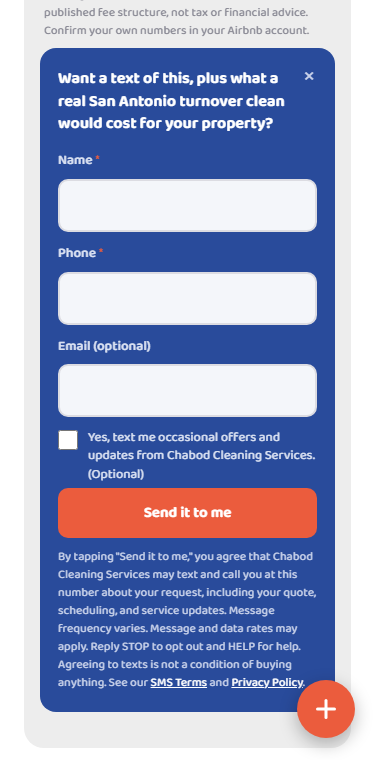
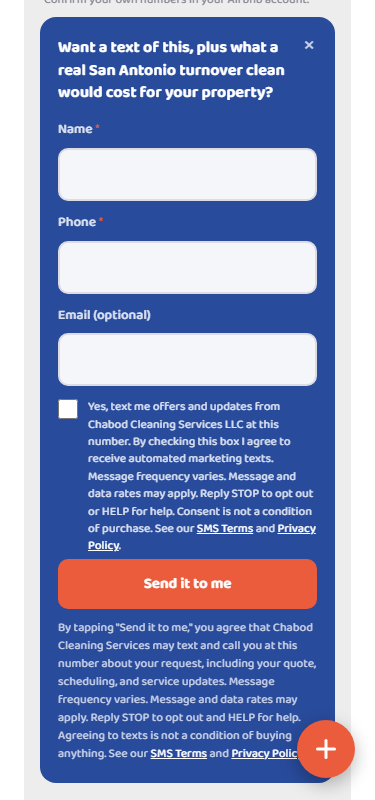
Apply approved legal wording: deposit moves, 'nothing to sign', softer claims, team-size notes
- Service Terms: new-client $50 deposit with up to 3 date moves; 'Nothing to sign'
  bullet and 'You do not sign anything'
- Soften absolute marketing claims (every time / always / spotless / zero) on the
  home, STR, residential and deep-cleaning pages, keeping meta, social-share copy,
  JSON-LD and llms.txt in step; same-day is subject to availability
- Add 'Team size and time depend on the size and condition of the property.' next to
  the 2-3 person / 3 hour and team-of-two-to-four claims
- Keep 'No contracts' / 'no lock-in fees' as written
- Stage final wording for four stored posts; archive originals
- LEGAL_REVIEW_NEEDED.md: undecided 4th move, open consistency items

diff --git a/public/residential-cleaning.html b/public/residential-cleaning.html
@@ -6,15 +6,15 @@
 <title>House Cleaning Services San Antonio | Chabod Cleaning</title>
 <link rel="canonical" href="https://chabodcleaningservices.com/residential-cleaning">
 <link rel="icon" type="image/png" href="/favicon.png">
-<meta name="description" content="Trusted house cleaning services in San Antonio, TX. Same team every visit, flat pricing, no contracts. Book your recurring or one-time clean today.">
+<meta name="description" content="Trusted house cleaning services in San Antonio, TX. Usually the same team, flat pricing, no contracts. Book your recurring or one-time clean today.">
 <meta property="og:type" content="website">
 <meta property="og:site_name" content="Chabod Cleaning Services">
 <meta property="og:title" content="House Cleaning Services San Antonio | Chabod Cleaning">
-<meta property="og:description" content="Trusted house cleaning services in San Antonio, TX. Same team every visit, flat pricing, no contracts. Book your recurring or one-time clean today.">
+<meta property="og:description" content="Trusted house cleaning services in San Antonio, TX. Usually the same team, flat pricing, no contracts. Book your recurring or one-time clean today.">
 <meta property="og:url" content="https://chabodcleaningservices.com/residential-cleaning">
 <meta name="twitter:card" content="summary">
 <meta name="twitter:title" content="House Cleaning Services San Antonio | Chabod Cleaning">
-<meta name="twitter:description" content="Trusted house cleaning services in San Antonio, TX. Same team every visit, flat pricing, no contracts. Book your recurring or one-time clean today.">
+<meta name="twitter:description" content="Trusted house cleaning services in San Antonio, TX. Usually the same team, flat pricing, no contracts. Book your recurring or one-time clean today.">
 <link rel="preload" href="/fonts/manrope-latin.woff2" as="font" type="font/woff2" crossorigin>
 <link rel="preload" href="/fonts/baloo2-latin.woff2" as="font" type="font/woff2" crossorigin>
 <style>
@@ -532,7 +532,7 @@ img.photo { background: none; border: none; padding: 0; display: block; max-widt
   "@type": "Service",
   "name": "Residential House Cleaning",
   "serviceType": "House cleaning",
-  "description": "Recurring and one-time house cleaning in San Antonio. The same trained team every visit, flat pricing, and no contracts.",
+  "description": "Recurring and one-time house cleaning in San Antonio. Usually the same trained team, flat pricing, and no contracts.",
   "url": "https://chabodcleaningservices.com/residential-cleaning",
   "provider": {
     "@id": "https://chabodcleaningservices.com/#business"
@@ -611,7 +611,7 @@ img.photo { background: none; border: none; padding: 0; display: block; max-widt
       "name": "Will I get the same cleaners every time?",
       "acceptedAnswer": {
         "@type": "Answer",
-        "text": "Yes. You get a dedicated team assigned to your home, plus a trained backup team who also knows your house in case your regulars are ever unavailable."
+        "text": "Usually. You get a dedicated team assigned to your home, plus a trained backup team who also knows your house in case your regulars are ever unavailable."
       }
     },
     {
@@ -627,7 +627,7 @@ img.photo { background: none; border: none; padding: 0; display: block; max-widt
       "name": "How long does a visit take?",
       "acceptedAnswer": {
         "@type": "Answer",
-        "text": "Most visits run 1.5–3 hours with a team of 2–3 people, rather than one person there all day."
+        "text": "Most visits run 1.5–3 hours with a team of 2–3 people, rather than one person there all day. Team size and time depend on the size and condition of the property."
       }
     },
     {
@@ -690,7 +690,7 @@ html.cc-wait #cc{display:block}
     <img class="photo hero-bg" id="heroBg" src="residential-hero-livingroom.webp" alt="Chabod Cleaning Services team member cleaning a San Antonio living room" width="1122" height="1402">
     <div class="hero-overlay">
       <h1>The Same Team, Cleaning Your San Antonio Home, <span class="hl on-dark">For Years.</span></h1>
-      <p class="sub">Chabod Cleaning Services keeps San Antonio homes at one standard, visit after visit, with the same trained team who actually knows your house. Not a stranger every time.</p>
+      <p class="sub">Chabod Cleaning Services keeps San Antonio homes at one standard, visit after visit, with a trained team who actually knows your house, usually the same one.</p>
       <div class="proof">8+ YEARS IN SAN ANTONIO &bull; DEDICATED TEAMS &bull; NO CONTRACTS</div>
       <a href="tel:+12104806224" class="btn">Talk to Andres Directly</a>
     </div>
@@ -741,8 +741,8 @@ html.cc-wait #cc{display:block}
   <!-- TRUST -->
   <div class="pad trust reveal">
     <img class="photo trust-photo" src="residential-team-arriving.webp" alt="Chabod Cleaning Services team arriving at a returning client's San Antonio home with cleaning supplies" loading="lazy" width="1600" height="900">
-    <h2>The same team. Every time. On purpose.</h2>
-    <p>You get a dedicated team assigned to your home, plus a trained backup team who also knows your house if your regulars are ever out. Every visit is logged, so there's always accountability behind what got done.</p>
+    <h2>Usually the same team. On purpose.</h2>
+    <p>You get a dedicated team assigned to your home, plus a trained backup team who also knows your house if your regulars are ever out. Every visit is logged, so there's accountability behind what got done.</p>
     <div class="stats-row" style="margin: 20px 0;">
       <div class="stat-block">
         <div class="stat-num" data-count="75">0</div>
@@ -753,6 +753,7 @@ html.cc-wait #cc{display:block}
         <div class="stat-label">hrs or less, most visits</div>
       </div>
     </div>
+    <p style="font-size:12px; color:#666; margin:-8px 0 16px;">Team size and time depend on the size and condition of the property.</p>
     <p style="margin-bottom: 8px; font-weight: 700; color: var(--blue); font-size: 15px;">A good fit for:</p>
     <div class="audience-row">
       <div class="audience-chip">Remote workers</div>
@@ -768,7 +769,7 @@ html.cc-wait #cc{display:block}
     <div class="glass-card">
       <h2>What we do, and what we're upfront about.</h2>
       <ul class="glass-list">
-        <li><span class="mark">&#10003;</span><span>Every room reset to standard, every visit.</span></li>
+        <li><span class="mark">&#10003;</span><span>Every room worked from our written checklist.</span></li>
         <li><span class="mark">&#10003;</span><span>Hotel-style bed-making with fresh linens, if you leave them out for us.</span></li>
         <li><span class="mark">&#10003;</span><span>Dishes go straight in the dishwasher, so our time goes to actually cleaning, not hand-washing.</span></li>
         <li><span class="mark">&#10007;</span><span>We don't do personal laundry &mdash; just being upfront about it.</span></li>
@@ -809,7 +810,7 @@ html.cc-wait #cc{display:block}
     </div>
     <div class="faq-item">
       <div class="faq-q">Will I get the same cleaners every time?</div>
-      <div class="faq-a">Yes. You get a dedicated team assigned to your home, plus a trained backup team who also knows your house in case your regulars are ever unavailable.</div>
+      <div class="faq-a">Usually. You get a dedicated team assigned to your home, plus a trained backup team who also knows your house in case your regulars are ever unavailable.</div>
     </div>
     <div class="faq-item">
       <div class="faq-q">Do you do laundry?</div>
@@ -817,7 +818,7 @@ html.cc-wait #cc{display:block}
     </div>
     <div class="faq-item">
       <div class="faq-q">How long does a visit take?</div>
-      <div class="faq-a">Most visits run 1.5&ndash;3 hours with a team of 2&ndash;3 people, rather than one person there all day.</div>
+      <div class="faq-a">Most visits run 1.5&ndash;3 hours with a team of 2&ndash;3 people, rather than one person there all day. Team size and time depend on the size and condition of the property.</div>
     </div>
     <div class="faq-item">
       <div class="faq-q">Is there a contract?</div>

diff --git a/public/deep-cleaning.html b/public/deep-cleaning.html
@@ -541,7 +541,7 @@ img.photo { background: none; border: none; padding: 0; display: block; max-widt
       "name": "What's actually included that isn't in a regular cleaning?",
       "acceptedAnswer": {
         "@type": "Answer",
-        "text": "The level of scrubbing. Showers cleaned to a streak-free finish, baseboards throughout, corner-level dusting with zero cobwebs, full oven degreasing, outside cabinet degreasing, moving the fridge and stove when needed, and grout work in every bathroom. None of that is part of a standard recurring visit."
+        "text": "The level of scrubbing. Showers cleaned to a streak-free finish, baseboards throughout, corner-level dusting and cobweb removal, full oven degreasing, outside cabinet degreasing, moving the fridge and stove when needed, and grout work in every bathroom. None of that is part of a standard recurring visit."
       }
     },
     {
@@ -549,7 +549,7 @@ img.photo { background: none; border: none; padding: 0; display: block; max-widt
       "name": "How long does a deep clean take?",
       "acceptedAnswer": {
         "@type": "Answer",
-        "text": "Usually four to six hours with a team of two to four people. We adjust crew size and hours depending on urgency and how much notice we get."
+        "text": "Usually four to six hours with a team of two to four people. We adjust crew size and hours depending on urgency and how much notice we get. Team size and time depend on the size and condition of the property."
       }
     },
     {
@@ -581,7 +581,7 @@ img.photo { background: none; border: none; padding: 0; display: block; max-widt
       "name": "How far in advance do I need to book?",
       "acceptedAnswer": {
         "@type": "Answer",
-        "text": "Sometimes we can accommodate same-day. Worst case, next-day. We understand move-outs come with hard deadlines, so we'll flex crew size and hours to make it work, as long as timing, access, and pricing line up."
+        "text": "Sometimes we can accommodate same-day; usually next-day or sooner, when the schedule allows. We understand move-outs come with hard deadlines, so we'll flex crew size and hours where we can, as long as timing, access, and pricing line up."
       }
     },
     {
@@ -653,7 +653,7 @@ html.cc-wait #cc{display:block}
     <ul>
       <li>Showers scrubbed to a streak-free, clear-glass finish</li>
       <li>Baseboards throughout, every room</li>
-      <li>Corner-level dusting, zero cobwebs left behind</li>
+      <li>Corner-level dusting and cobweb removal</li>
       <li>Full oven degreasing, inside and out</li>
       <li>Cabinet fronts degreased, outside and in (when vacant)</li>
       <li>Fridge moved and cleaned behind and beneath, when applicable</li>
@@ -705,7 +705,7 @@ document.addEventListener("click", function (e) {
     <h2 class="reveal">Built for the moment you're actually in.</h2>
     <div class="case-card reveal" style="--stagger: 0s;">
       <h3>Move-Out / Move-In</h3>
-      <p>Need the property returned spotless, or settling into a new home before you unpack? This is often the first job we do for a new client, before we ever become their regular cleaner. It's the most requested move out cleaning service we handle in San Antonio.</p>
+      <p>Need the property move-out ready, or settling into a new home before you unpack? This is often the first job we do for a new client, before we ever become their regular cleaner. It's the most requested move out cleaning service we handle in San Antonio.</p>
     </div>
     <div class="case-card reveal" style="--stagger: 0.15s;">
       <h3>The First Deep Clean Before Going Recurring</h3>
@@ -719,7 +719,7 @@ document.addEventListener("click", function (e) {
 
   <div class="liability pad reveal">
     <h2>One note on cabinets, fridges, and pantries.</h2>
-    <p>If the property is vacant and cleared out, we go all in — inside cabinets, inside the fridge, inside the pantry, all of it, spotless. If it's still occupied with belongings in place, we clean everything around your things, but won't go inside personal food storage or move your items — strictly a liability call. Clear the shelves first, and we'll gladly go inside.</p>
+    <p>If the property is vacant and cleared out, we go all in — inside cabinets, inside the fridge, inside the pantry, all of it. If it's still occupied with belongings in place, we clean everything around your things, but won't go inside personal food storage or move your items — strictly a liability call. Clear the shelves first, and we'll gladly go inside.</p>
   </div>
 
   <div class="pricing pad reveal">
@@ -747,11 +747,11 @@ document.addEventListener("click", function (e) {
     <h2>Frequently Asked Questions</h2>
     <div class="faq-item open" onclick="this.classList.toggle('open')">
       <div class="faq-q">What's actually included that isn't in a regular cleaning?</div>
-      <div class="faq-a">The level of scrubbing. Showers cleaned to a streak-free finish, baseboards throughout, corner-level dusting with zero cobwebs, full oven degreasing, outside cabinet degreasing, moving the fridge and stove when needed, and grout work in every bathroom. None of that is part of a standard recurring visit.</div>
+      <div class="faq-a">The level of scrubbing. Showers cleaned to a streak-free finish, baseboards throughout, corner-level dusting and cobweb removal, full oven degreasing, outside cabinet degreasing, moving the fridge and stove when needed, and grout work in every bathroom. None of that is part of a standard recurring visit.</div>
     </div>
     <div class="faq-item" onclick="this.classList.toggle('open')">
       <div class="faq-q">How long does a deep clean take?</div>
-      <div class="faq-a">Usually four to six hours with a team of two to four people. We adjust crew size and hours depending on urgency and how much notice we get.</div>
+      <div class="faq-a">Usually four to six hours with a team of two to four people. We adjust crew size and hours depending on urgency and how much notice we get. Team size and time depend on the size and condition of the property.</div>
     </div>
     <div class="faq-item" onclick="this.classList.toggle('open')">
       <div class="faq-q">Do I need to be home for it?</div>
@@ -767,7 +767,7 @@ document.addEventListener("click", function (e) {
     </div>
     <div class="faq-item" onclick="this.classList.toggle('open')">
       <div class="faq-q">How far in advance do I need to book?</div>
-      <div class="faq-a">Sometimes we can accommodate same-day. Worst case, next-day. We understand move-outs come with hard deadlines, so we'll flex crew size and hours to make it work, as long as timing, access, and pricing line up.</div>
+      <div class="faq-a">Sometimes we can accommodate same-day; usually next-day or sooner, when the schedule allows. We understand move-outs come with hard deadlines, so we'll flex crew size and hours where we can, as long as timing, access, and pricing line up.</div>
     </div>
     <div class="faq-item" onclick="this.classList.toggle('open')">
       <div class="faq-q">Is this a one-time service, or do I have to commit to more?</div>

diff --git a/public/str-cleaning.html b/public/str-cleaning.html
@@ -6,16 +6,16 @@
 <title>Airbnb Cleaning San Antonio | Chabod Cleaning Services</title>
 <link rel="canonical" href="https://chabodcleaningservices.com/str-cleaning">
 <link rel="icon" type="image/png" href="/favicon.png">
-<meta name="description" content="Reliable Airbnb & STR turnover cleaning in San Antonio. Same-day availability, guest-ready every time. Text Andres directly: (210) 480-6224.">
+<meta name="description" content="Reliable Airbnb & STR turnover cleaning in San Antonio. Same-day turnovers subject to availability. Text Andres directly: (210) 480-6224.">
 <meta property="og:type" content="website">
 <meta property="og:site_name" content="Chabod Cleaning Services">
 <meta property="og:title" content="Airbnb Cleaning San Antonio | Chabod Cleaning Services">
-<meta property="og:description" content="Reliable Airbnb & STR turnover cleaning in San Antonio. Same-day availability, guest-ready every time. Text Andres directly: (210) 480-6224.">
+<meta property="og:description" content="Reliable Airbnb & STR turnover cleaning in San Antonio. Same-day turnovers subject to availability. Text Andres directly: (210) 480-6224.">
 <meta property="og:url" content="https://chabodcleaningservices.com/str-cleaning">
 <meta property="og:image" content="https://chabodcleaningservices.com/str-hero.jpg">
 <meta name="twitter:card" content="summary_large_image">
 <meta name="twitter:title" content="Airbnb Cleaning San Antonio | Chabod Cleaning Services">
-<meta name="twitter:description" content="Reliable Airbnb & STR turnover cleaning in San Antonio. Same-day availability, guest-ready every time. Text Andres directly: (210) 480-6224.">
+<meta name="twitter:description" content="Reliable Airbnb & STR turnover cleaning in San Antonio. Same-day turnovers subject to availability. Text Andres directly: (210) 480-6224.">
 <meta name="twitter:image" content="https://chabodcleaningservices.com/str-hero.jpg">
 <link rel="preload" href="/fonts/manrope-latin.woff2" as="font" type="font/woff2" crossorigin>
 <link rel="preload" href="/fonts/baloo2-latin.woff2" as="font" type="font/woff2" crossorigin>
@@ -570,7 +570,7 @@ img.photo { background: none; border: none; padding: 0; display: block; max-widt
   "@type": "Service",
   "name": "Airbnb & Short-Term Rental Turnover Cleaning",
   "serviceType": "Short-term rental turnover cleaning",
-  "description": "Reliable Airbnb and VRBO turnover cleaning in San Antonio. Same-day availability, a dedicated team working from a property-specific SOP, and photo verification on every job.",
+  "description": "Reliable Airbnb and VRBO turnover cleaning in San Antonio. Same-day turnovers subject to availability, a dedicated team working from a property-specific SOP, and photo verification.",
   "url": "https://chabodcleaningservices.com/str-cleaning",
   "provider": {
     "@id": "https://chabodcleaningservices.com/#business"
@@ -649,7 +649,7 @@ img.photo { background: none; border: none; padding: 0; display: block; max-widt
       "name": "Can you handle same-day or last-minute turnovers?",
       "acceptedAnswer": {
         "@type": "Answer",
-        "text": "Yes, always. We plug directly into your calendar through any PMS, so we see reservations the moment you do."
+        "text": "Often, yes, subject to availability. We work with the platform you already use, so we can see reservations as they come in."
       }
     },
     {
@@ -739,7 +739,7 @@ html.cc-wait #cc{display:block}
     <img class="hero-bg" id="heroParallaxBg" src="str-hero.jpg" alt="Chabod Cleaning Services team member wiping down a San Antonio kitchen countertop" width="1200" height="1500">
     <div class="hero-overlay">
       <h1>Tired of unreliable Airbnb cleaners <span class="hl on-dark">costing you bookings</span> and five star reviews?</h1>
-      <p class="sub">Chabod Cleaning Services is the eyes on your property when you can't be there, so every guest checks into a spotless home, <strong>on time, every time</strong>.</p>
+      <p class="sub">Chabod Cleaning Services is the eyes on your property when you can't be there, so your guests check into a clean home, <strong>on time</strong>.</p>
       <div class="proof">8+ YEARS IN SAN ANTONIO STR TURNOVERS · 13+ TEAMS · NO CONTRACTS</div>
       <a class="btn btn-bounce" href="tel:+12104806224">Talk to Andres Directly</a>
     </div>
@@ -788,13 +788,13 @@ html.cc-wait #cc{display:block}
 
   <div class="consist pad">
     <img class="photo consist-photo" src="str-team-cleaning.webp" alt="Chabod Cleaning Services team making a bed and dusting during an Airbnb turnover in San Antonio" loading="lazy" width="1122" height="1402">
-    <h2>The same trained team, every time.</h2>
+    <h2>The same trained team.</h2>
     <p>Most properties get one <strong>dedicated team</strong> handling the vast majority of cleanings, with a trained backup ready if needed. Every team works from the <strong><span class="hl2">same written SOP</span></strong>, built personally by Andres for your property, so quality never depends on who shows up.</p>
   </div>
 
   <div class="pricing pad">
     <h2>Simple pricing. No hidden fees. Ever.</h2>
-    <p class="price-note" style="margin-bottom:16px;">The straightforward way we price Airbnb cleaning in San Antonio, so you always know what you're paying for before the guest ever checks in.</p>
+    <p class="price-note" style="margin-bottom:16px;">The straightforward way we price Airbnb cleaning in San Antonio, so you know what you're paying for in advance.</p>
     <div class="price-row">
       <div class="price-block"><div class="price-mult">0.5×</div><div class="price-label">Touch-up</div></div>
       <div class="price-block"><div class="price-mult">1×</div><div class="price-label">Regular</div></div>
@@ -875,7 +875,7 @@ document.addEventListener("click", function (e) {
     </div>
     <div class="faq-item" onclick="this.classList.toggle('open')">
       <div class="faq-q">Can you handle same-day or last-minute turnovers?</div>
-      <div class="faq-a">Yes, always. We plug directly into your calendar through any PMS, so we see reservations the moment you do.</div>
+      <div class="faq-a">Often, yes, subject to availability. We work with the platform you already use, so we can see reservations as they come in.</div>
     </div>
     <div class="faq-item" onclick="this.classList.toggle('open')">
       <div class="faq-q">Will I get a different cleaner every time?</div>

diff --git a/public/service-terms.html b/public/service-terms.html
@@ -269,13 +269,14 @@ html.cc-wait #cc{display:block}
   <h2 class="kb-title">The key terms, in short</h2>
   <ul>
     <li><strong>The work:</strong> we clean what we agreed to in your quote or checklist.</li>
-    <li><strong>Paying:</strong> new clients pay a $50 booking deposit to hold the date, credited toward the first visit. Your first visit is paid when it is finished. After that, recurring clients are invoiced at the start of each month, prepaid. One-time, deep-clean, and move-in/move-out work is paid when it is finished. STR turnovers are invoiced when completed.</li>
+    <li><strong>Paying:</strong> new clients pay a $50 booking deposit to hold the date, credited toward the first visit. You can move the date up to 3 times. Your first visit is paid when it is finished. After that, recurring clients are invoiced at the start of each month, prepaid. One-time, deep-clean, and move-in/move-out work is paid when it is finished. STR turnovers are invoiced when completed.</li>
     <li><strong>Cancelling:</strong> please give 24 hours' notice. There is no cancellation fee or lockout fee. A new client's $50 booking deposit is not refunded if that booking is cancelled (see section 5).</li>
     <li><strong>If something is missed:</strong> tell us, and we come back within 48 hours at no charge for areas in the agreed scope (residential and one-time work). STR timing is in section 7.</li>
     <li><strong>Damage:</strong> please tell us within 48 hours with photos. We answer within 5 business days.</li>
     <li><strong>Our limit:</strong> there is a limit on what we owe if something goes wrong. See the boxed text in section 8.</li>
     <li><strong>Keys:</strong> we do not receive or keep keys.</li>
-    <li><strong>Problems:</strong> talk to us first. Texas law applies. Small claims court is allowed.</li>
+    <li><strong>Nothing to sign:</strong> these terms apply when you book or let us start a visit.</li>
+  <li><strong>Problems:</strong> talk to us first. Texas law applies. Small claims court is allowed.</li>
   </ul>
   <p class="kb-note">This box is only a summary. The full terms below are what apply.</p>
 </div>
@@ -333,7 +334,7 @@ html.cc-wait #cc{display:block}
   <li><strong>Overdue invoices.</strong> We do not charge a late fee. We may pause service until an overdue invoice is paid.</li>
   <li><strong>If we cancel or miss a prepaid visit,</strong> we will reschedule it within 7 days, or credit or refund that visit's price on your next invoice.</li>
 </ul>
-<p><strong>Deposits.</strong> New clients: we ask for a $50 booking deposit to hold the date. It is credited toward your first visit. If you cancel that booking, the deposit is not refunded. If we cancel or cannot do the work, we refund it in full. Recurring clients do not pay a deposit; their prepaid monthly invoices follow the rules in this section and in <a href="#cancelling">section 6</a>.</p>
+<p><strong>Deposits.</strong> New clients: we ask for a $50 booking deposit to hold the date. It is credited toward your first visit. You can move the date of that first visit up to 3 times, and the deposit stays with your booking. If you need to move it more than 3 times, talk to us. If you cancel that booking, the deposit is not refunded. If we cancel or cannot do the work, we refund it in full. Recurring clients do not pay a deposit; their prepaid monthly invoices follow the rules in this section and in <a href="#cancelling">section 6</a>.</p>
 
 
 <h2 id="cancelling">6. Cancelling, rescheduling, pausing</h2>
@@ -385,7 +386,7 @@ html.cc-wait #cc{display:block}
 <p>Texas law applies to these terms. Courts in Bexar County, Texas, can hear a dispute, and either side can use small claims court. Nothing in these terms takes away a right you have under a consumer protection law that cannot be waived.</p>
 
 <h2 id="general">14. Changes and contact</h2>
-<p>We may update these terms. The version in effect when you book applies to that booking. These terms, your quote or proposal, and your invoices make up the whole agreement. If a part of these terms cannot be enforced, the rest still applies.</p>
+<p>We may update these terms. The version in effect when you book applies to that booking. These terms, your quote or proposal, and your invoices make up the whole agreement. You do not sign anything. If a part of these terms cannot be enforced, the rest still applies.</p>
 <p>Send legal notices to us by email at <a href="mailto:home@chabodcleaningservices.com">home@chabodcleaningservices.com</a>.</p>
 <p>Chabod Cleaning Services LLC<br>San Antonio, Texas<br>Phone or text: <a href="tel:+12104806224">(210) 480-6224</a></p>
 

diff --git a/public/index.html b/public/index.html
@@ -459,7 +459,7 @@ html.cc-wait #cc{display:block}
       <svg class="smile-accent" viewBox="0 0 70 24" xmlns="http://www.w3.org/2000/svg">
         <path d="M2,4 C18,26 52,26 68,4" stroke="#eb5c3d" stroke-width="5" fill="none" stroke-linecap="round"/>
       </svg>
-      <p class="sub">Chabod Cleaning Services has kept San Antonio homes and Airbnb rentals spotless for 8+ years &mdash; the same dedicated team, every time, no contracts.</p>
+      <p class="sub">Chabod Cleaning Services has cleaned San Antonio homes and Airbnb rentals for 8+ years &mdash; the same dedicated team, no contracts.</p>
       <div class="proof">5.0 ON GOOGLE &middot; 44 REVIEWS &bull; 60+ STR PROPERTIES</div>
     </div>
     <div class="hero-visual">
@@ -521,7 +521,7 @@ html.cc-wait #cc{display:block}
       <img class="photo" src="str-card-home.webp" alt="Staged Airbnb bedroom after a professional cleaning turnover by Chabod Cleaning Services in San Antonio" loading="lazy" width="800" height="600">
       <div class="service-card-body">
         <h3>Airbnb &amp; STR Turnovers</h3>
-        <p>Same-day turnovers to a written SOP built for your property, photo-verified every time &mdash; a team that treats your rating like it's their own.</p>
+        <p>Same-day turnovers to a written SOP built for your property, photo-verified &mdash; a team that treats your rating like it's their own.</p>
         <a href="/str-cleaning" class="service-link">See STR Cleaning &rarr;</a>
       </div>
     </div>
@@ -530,7 +530,7 @@ html.cc-wait #cc{display:block}
       <img class="photo" src="residential-hero-livingroom.webp" alt="Chabod Cleaning Services team member cleaning a San Antonio living room" loading="lazy" width="1122" height="1402" style="object-position: center 25%;">
       <div class="service-card-body">
         <h3>Residential Cleaning</h3>
-        <p>The same trained team, in your home, every visit &mdash; weekly, biweekly, or monthly.</p>
+        <p>Usually the same trained team, in your home &mdash; weekly, biweekly, or monthly.</p>
         <a href="/residential-cleaning" class="service-link">See Residential Cleaning &rarr;</a>
       </div>
     </div>
@@ -558,7 +558,7 @@ html.cc-wait #cc{display:block}
   <!-- WHY CHABOD -->
   <div class="pad why reveal">
     <h2>Why San Antonio picks Chabod</h2>
-    <div class="why-item"><span class="why-mark">&mdash;</span><p><strong>Same team, every time.</strong> Not a rotating cast of strangers.</p></div>
+    <div class="why-item"><span class="why-mark">&mdash;</span><p><strong>Usually the same team.</strong> Not a rotating cast of strangers.</p></div>
     <div class="why-item"><span class="why-mark">&mdash;</span><p><strong>No contracts, ever.</strong> Adjust or stop anytime.</p></div>
     <div class="why-item"><span class="why-mark">&mdash;</span><p><strong>Family-owned since day one.</strong> Still run by the same family, still answering the phone.</p></div>
     <div class="why-item"><span class="why-mark">&mdash;</span><p><strong>Proactive, not passive.</strong> We flag issues we notice &mdash; we don't just clean around them.</p></div>

diff --git a/LEGAL_REVIEW_NEEDED.md b/LEGAL_REVIEW_NEEDED.md
@@ -33,6 +33,10 @@ Effective date and version are at the top of each of the four pages (set again a
      cancels that booking, the deposit is NOT refunded. If Chabod cancels or cannot do the work, it is refunded in
      full.** Recurring clients pay no deposit. (Andres chose this wording; "Version B", credit-only for all prepaid
      money, was deleted.)
+   - **Moving the first visit:** a new client may move the date of the first visit up to 3 times and the deposit stays
+     with the booking. **What happens at a 4th move is undecided** (the text says "talk to us"). The 3-move limit
+     applies only to a new client's first booked visit; recurring visits keep the 24-hours'-notice rules in section 6.
+   - **The deposit forfeiture stays HIGH priority for the attorney.**
    - A non-refundable deposit can look like a cancellation fee or a penalty. The site and two posts say "no
      contracts" and "no penalty." Check against Texas consumer law (including the DTPA) and whether $50 is a
      reasonable estimate of loss.
@@ -135,6 +139,16 @@ Effective date and version are at the top of each of the four pages (set again a
 4. **No attorney. No liability insurance.** Say nothing about insurance, bonding or licensing anywhere on the site.
    Keep the clause that the client is responsible for insuring their own property.
 5. **Mailing address.** Email only for now (home@chabodcleaningservices.com).
+
+## Things to settle
+
+- **"You do not sign anything" (Service Terms) vs. the blog.** The post `trapped-cleaning-contract-san-antonio` says
+  Chabod asks every owner to sign a scope of work. Either the post or the terms need to change so they agree.
+- **"No contracts" and "no lock-in fees" stay** on all pages and footers (Andres's decision). The posts now say "no
+  cancellation fees" while the Service Terms say a new client's $50 deposit is not refunded if that booking is
+  cancelled. Attorney to look at whether those can both be said.
+- **Absolute wording that was left alone:** STR page "there's always a clear record of who was there and when" and
+  "so quality never depends on who shows up".
 
 ## Clauses Claude added that were not on the approved list (confirm or delete)
 
